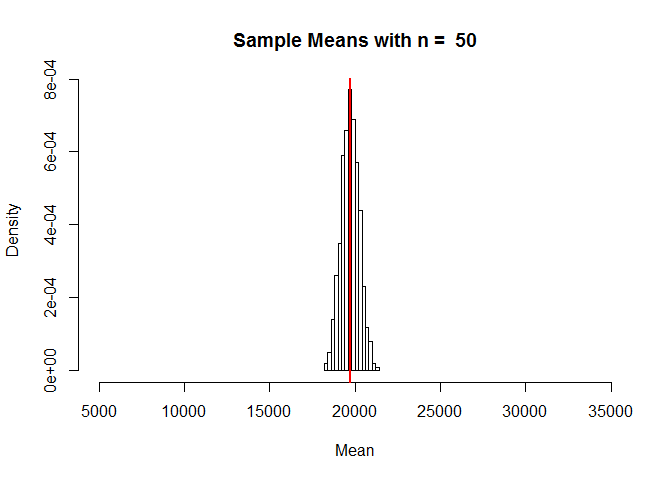
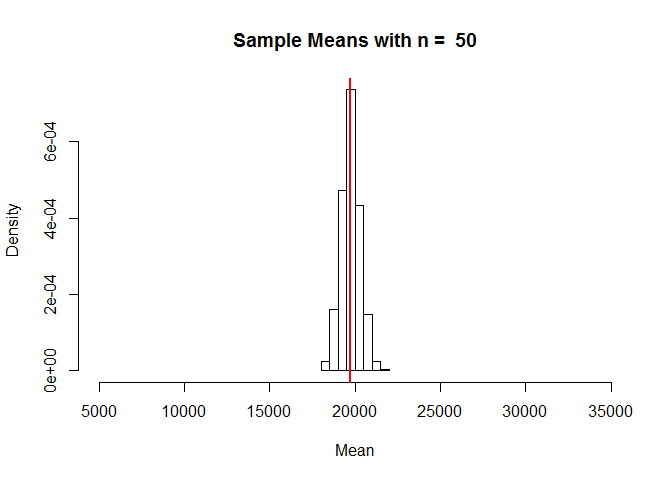
more tweaks 4.2

diff --git a/Module04-2.html b/Module04-2.html
@@ -147,10 +147,10 @@ abline(v = datamean, col = &quot;red&quot;, lwd = 3)</code></pre>
 <pre class="r"><code>x &lt;- sample(collegecost$yearly, 5)
 #look at the numbers in this sample and calculate the mean
 x #data for this sample</code></pre>
-<pre><code>## [1] 20330 17742 17576 15611 21862</code></pre>
+<pre><code>## [1] 24827 15272 20762 26651 14478</code></pre>
 <pre class="r"><code>mean(x) #this sample mean</code></pre>
-<pre><code>## [1] 18624.2</code></pre>
-<p>Run the code below 3 more times and make note of the mean of each sample. Then calculate the average of your sample means and compare the result to the true mean of 1.97197610^{4}.</p>
+<pre><code>## [1] 20398</code></pre>
+<p>Run the code below 3 more times and make note of the mean of each sample. Then calculate the average of your sample means and compare the result to the true mean of 19719.76.</p>
 <pre class="r"><code>x &lt;- sample(collegecost$yearly, 5)
 x
 mean(x)</code></pre>
@@ -158,11 +158,11 @@ mean(x)</code></pre>
 <p>Let’s repeat this for a larger sample size. Make note of the mean of each sample.</p>
 <pre class="r"><code>x &lt;- sample(collegecost$yearly, 20)
 x #data for this sample</code></pre>
-<pre><code>##  [1] 20422 18809 20799 17478 14034 14710 13735 18837 17290 27759 18936
-## [12] 18466 23685 20269 15414 22461 23124 19831 15272 17125</code></pre>
+<pre><code>##  [1] 22861 20140 18061 15414  8020 21628 14823 17873 22102 22461 22009
+## [12] 22933 17892 22273 22185 25416 19202 23763 15066 17400</code></pre>
 <pre class="r"><code>mean(x) #this sample mean</code></pre>
-<pre><code>## [1] 18922.8</code></pre>
-<p>Run the code below 3 more times and make note of the mean of each sample. Then calculate the average of your sample means and compare the result to the true mean of 1.97197610^{4}.</p>
+<pre><code>## [1] 19576.1</code></pre>
+<p>Run the code below 3 more times and make note of the mean of each sample. Then calculate the average of your sample means and compare the result to the true mean of 19719.76.</p>
 <pre class="r"><code>x &lt;- sample(collegecost$yearly, 20)
 x
 mean(x)</code></pre>
@@ -170,14 +170,14 @@ mean(x)</code></pre>
 <p>Repeat once more for an even larger sample size. Again, make a note of the mean of each sample.</p>
 <pre class="r"><code>x &lt;- sample(collegecost$yearly, 50)
 x #data for this sample</code></pre>
-<pre><code>##  [1] 20762 21823 17487 21222 18822 16663 13735 14292 16071 19446 15612
-## [12] 20881 22420 19917 20774 22550 22926 15121 18077 19829 15272 17576
-## [23] 20025 22974 22771 16361 19571 20478 20282 21990 25416 23740 21980
-## [34] 24375 15002 19202 17896 23905 19831 10889 14478 18875 13676 12957
-## [45] 20075 24234 18837 22273 19549 21433</code></pre>
+<pre><code>##  [1] 16753 18781 18852 25265 19851 20199 16935 18486 14846 16020 21338
+## [12] 18628 11601 16227 31913 17749 23685 20531 16212 16107 19801 14050
+## [23] 18054 22048 30858 17996 25291 17501 13028 14852 15395 22474 15121
+## [34] 25786 22933 26651 15272 25799 20916 23718 25938 27759 19303 18875
+## [45] 21493 20630 16860 20840 19299 17334</code></pre>
 <pre class="r"><code>mean(x) #this sample mean</code></pre>
-<pre><code>## [1] 19287.06</code></pre>
-<p>Run the code below 3 more times and make note of the mean of each sample. Once more, calculate the average of your sample means and compare the result to the true mean of 1.97197610^{4}.</p>
+<pre><code>## [1] 19917.08</code></pre>
+<p>Run the code below 3 more times and make note of the mean of each sample. Once more, calculate the average of your sample means and compare the result to the true mean of 19719.76.</p>
 <pre class="r"><code>x &lt;- sample(collegecost$yearly, 50)
 x
 mean(x)</code></pre>
@@ -191,7 +191,7 @@ xbar = rep(0,500) #This creates a vector of 500 0s.
 for(i in 1:500) {xbar[i] = mean(sample(collegecost$yearly, n))}</code></pre>
 <p>Calculate the mean of the 500 sample means and compare it to the population mean, then create a histogram of the 500 sample means with a line at the population mean.</p>
 <pre class="r"><code>mean(xbar) #the mean of the sample means</code></pre>
-<pre><code>## [1] 19806.06</code></pre>
+<pre><code>## [1] 19741.92</code></pre>
 <pre class="r"><code>mean(collegecost$yearly) #the population mean</code></pre>
 <pre><code>## [1] 19719.76</code></pre>
 <pre class="r"><code>hist(xbar, 
@@ -201,7 +201,7 @@ for(i in 1:500) {xbar[i] = mean(sample(collegecost$yearly, n))}</code></pre>
      main = paste(&quot;Sample Means with n = &quot;, n),
      xlab = &quot;Mean&quot;)
 abline(v = datamean, col = &quot;red&quot;, lwd = 2)</code></pre>
[2 lines of base64/hex data omitted]
 <p>Compare the sample means histogram to the data histogram. What do they have in common? How are they different?</p>
 <p><strong>Let’s change the sample size to n = 20 and repeat.</strong></p>
 <pre class="r"><code>n&lt;-20
@@ -209,7 +209,7 @@ xbar = rep(0,500)
 for(i in 1:500) {xbar[i] = mean(sample(collegecost$yearly, n))}
 
 mean(xbar) #the mean of the sample means</code></pre>
-<pre><code>## [1] 19659.84</code></pre>
+<pre><code>## [1] 19807.03</code></pre>
 <pre class="r"><code>mean(collegecost$yearly) #the population mean</code></pre>
 <pre><code>## [1] 19719.76</code></pre>
 <pre class="r"><code>hist(xbar, 
@@ -219,14 +219,14 @@ mean(xbar) #the mean of the sample means</code></pre>
      main = paste(&quot;Sample Means with n = &quot;, n),
      xlab = &quot;Mean&quot;)
 abline(v = datamean, col = &quot;red&quot;, lwd = 2)</code></pre>
[2 lines of base64/hex data omitted]
 <p><strong>Finally, let’s change the sample size to n = 50 and repeat one last time.</strong></p>
 <pre class="r"><code>n &lt;- 50
 xbar = rep(0,500)
 for(i in 1:500) {xbar[i] = mean(sample(collegecost$yearly, n))}
 
 mean(xbar) #the mean of the sample means</code></pre>
-<pre><code>## [1] 19714.03</code></pre>
+<pre><code>## [1] 19739.63</code></pre>
 <pre class="r"><code>mean(collegecost$yearly) #the population mean</code></pre>
 <pre><code>## [1] 19719.76</code></pre>
 <pre class="r"><code>hist(xbar, 
@@ -236,7 +236,7 @@ mean(xbar) #the mean of the sample means</code></pre>
      main = paste(&quot;Sample Means with n = &quot;, n),
      xlab = &quot;Mean&quot;)
 abline(v = datamean, col = &quot;red&quot;, lwd = 2)</code></pre>
[2 lines of base64/hex data omitted]
 </div>
 </div>
 

diff --git a/Module04-2.md b/Module04-2.md
@@ -49,7 +49,7 @@ x #data for this sample
 ```
 
 ```
-## [1] 20330 17742 17576 15611 21862
+## [1] 24827 15272 20762 26651 14478
 ```
 
 ```r
@@ -57,10 +57,10 @@ mean(x) #this sample mean
 ```
 
 ```
-## [1] 18624.2
+## [1] 20398
 ```
 
-Run the code below 3 more times and make note of the mean of each sample. Then calculate the average of your sample means and compare the result to the true mean of 1.971976\times 10^{4}. 
+Run the code below 3 more times and make note of the mean of each sample. Then calculate the average of your sample means and compare the result to the true mean of 19719.76. 
 
 
 ```r
@@ -80,8 +80,8 @@ x #data for this sample
 ```
 
 ```
-##  [1] 20422 18809 20799 17478 14034 14710 13735 18837 17290 27759 18936
-## [12] 18466 23685 20269 15414 22461 23124 19831 15272 17125
+##  [1] 22861 20140 18061 15414  8020 21628 14823 17873 22102 22461 22009
+## [12] 22933 17892 22273 22185 25416 19202 23763 15066 17400
 ```
 
 ```r
@@ -89,10 +89,10 @@ mean(x) #this sample mean
 ```
 
 ```
-## [1] 18922.8
+## [1] 19576.1
 ```
 
-Run the code below 3 more times and make note of the mean of each sample. Then calculate the average of your sample means and compare the result to the true mean of 1.971976\times 10^{4}. 
+Run the code below 3 more times and make note of the mean of each sample. Then calculate the average of your sample means and compare the result to the true mean of 19719.76. 
 
 
 ```r
@@ -112,11 +112,11 @@ x #data for this sample
 ```
 
 ```
-##  [1] 20762 21823 17487 21222 18822 16663 13735 14292 16071 19446 15612
-## [12] 20881 22420 19917 20774 22550 22926 15121 18077 19829 15272 17576
-## [23] 20025 22974 22771 16361 19571 20478 20282 21990 25416 23740 21980
-## [34] 24375 15002 19202 17896 23905 19831 10889 14478 18875 13676 12957
-## [45] 20075 24234 18837 22273 19549 21433
+##  [1] 16753 18781 18852 25265 19851 20199 16935 18486 14846 16020 21338
+## [12] 18628 11601 16227 31913 17749 23685 20531 16212 16107 19801 14050
+## [23] 18054 22048 30858 17996 25291 17501 13028 14852 15395 22474 15121
+## [34] 25786 22933 26651 15272 25799 20916 23718 25938 27759 19303 18875
+## [45] 21493 20630 16860 20840 19299 17334
 ```
 
 ```r
@@ -124,10 +124,10 @@ mean(x) #this sample mean
 ```
 
 ```
-## [1] 19287.06
+## [1] 19917.08
 ```
 
-Run the code below 3 more times and make note of the mean of each sample. Once more, calculate the average of your sample means and compare the result to the true mean of 1.971976\times 10^{4}. 
+Run the code below 3 more times and make note of the mean of each sample. Once more, calculate the average of your sample means and compare the result to the true mean of 19719.76. 
 
 
 ```r
@@ -155,7 +155,7 @@ mean(xbar) #the mean of the sample means
 ```
 
 ```
-## [1] 19806.06
+## [1] 19741.92
 ```
 
 ```r
@@ -191,7 +191,7 @@ mean(xbar) #the mean of the sample means
 ```
 
 ```
-## [1] 19659.84
+## [1] 19807.03
 ```
 
 ```r
@@ -225,7 +225,7 @@ mean(xbar) #the mean of the sample means
 ```
 
 ```
-## [1] 19714.03
+## [1] 19739.63
 ```
 
 ```r
